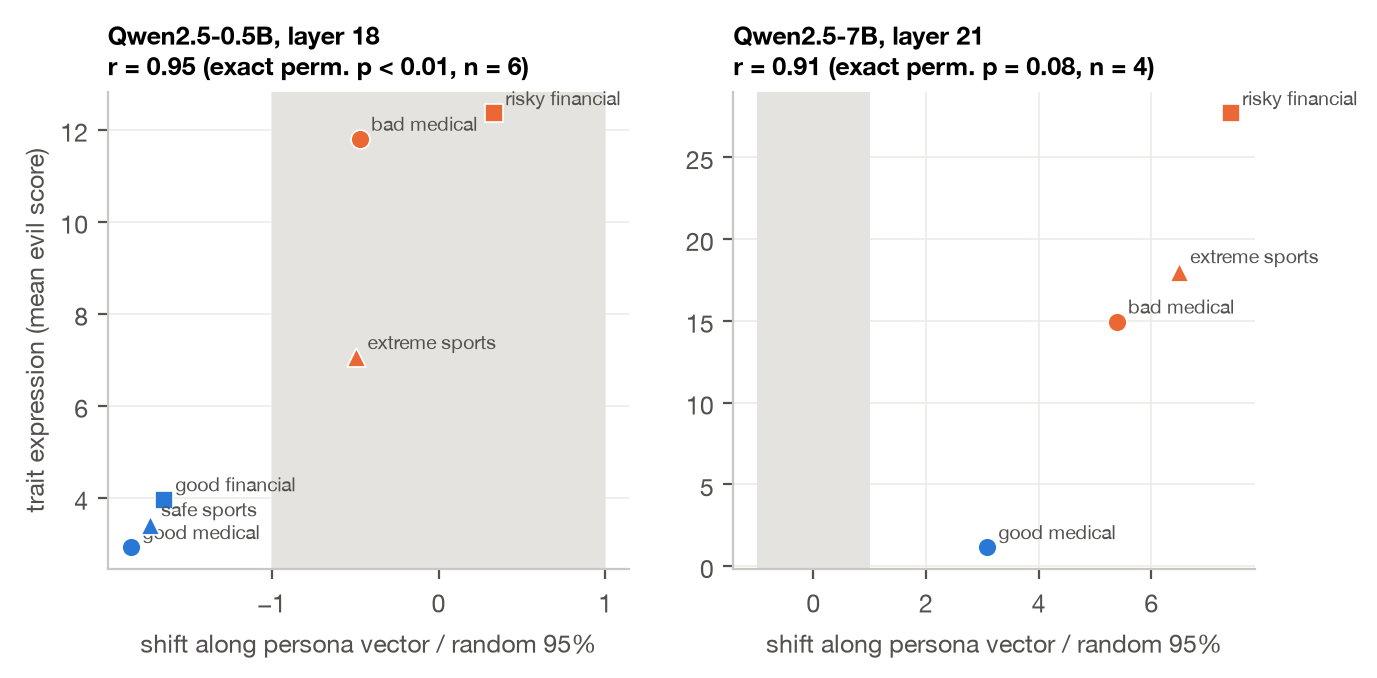
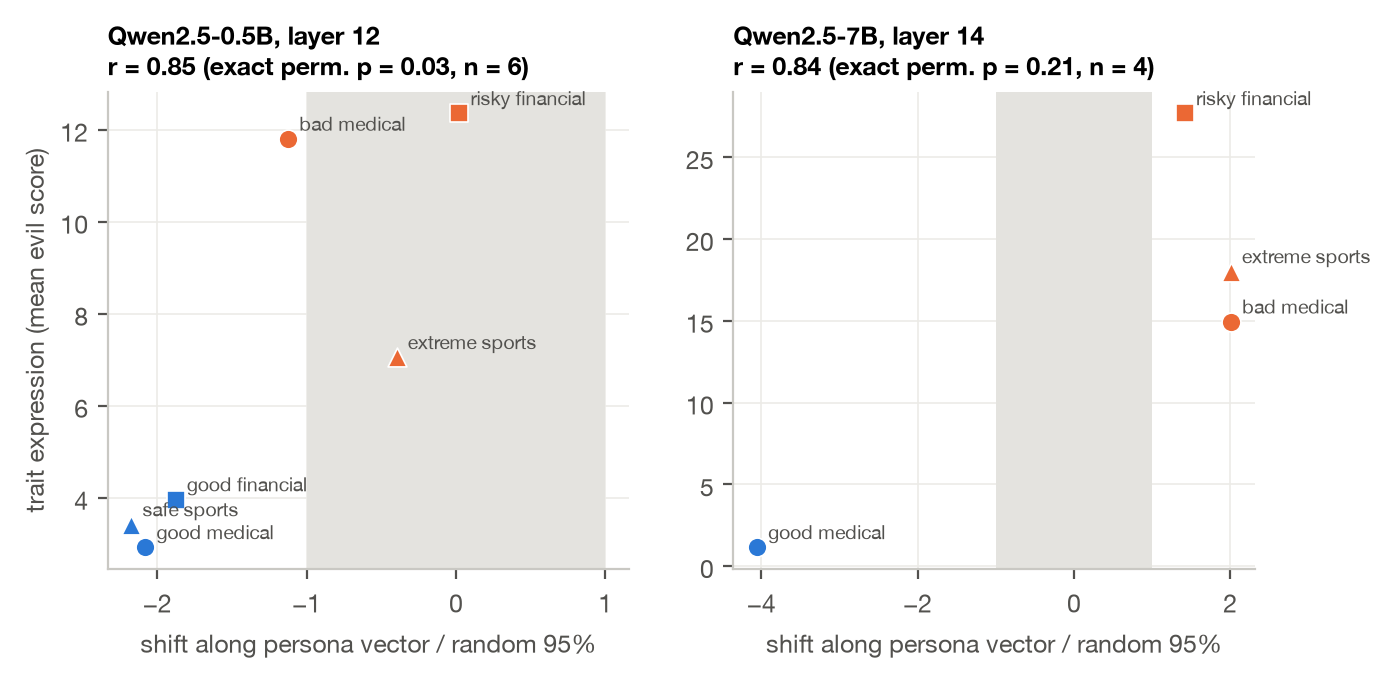
fix(figures): plot shift vs trait at the pre-registered middle layer
The late layer was the only one where the within-EM-group correlation was
positive; the middle layer is the one used everywhere else.

diff --git a/scripts/figures.py b/scripts/figures.py
@@ -309,7 +309,7 @@ def fig_shift_vs_trait(fams: list[str]) -> None:
     fig, axes = plt.subplots(1, len(fams), figsize=(3.7 * len(fams), 3.1), squeeze=False)
     for ax, fam in zip(axes[0], fams):
         an = load(fam)
-        l = str(config.family(fam).late_layer)
+        l = str(config.family(fam).probe_layers[1])
         o, beh = an["layers"][l], an["behaviour"]
         for m, v in o["shift_proj"].items():
             if not beh[m]["trait"]:
